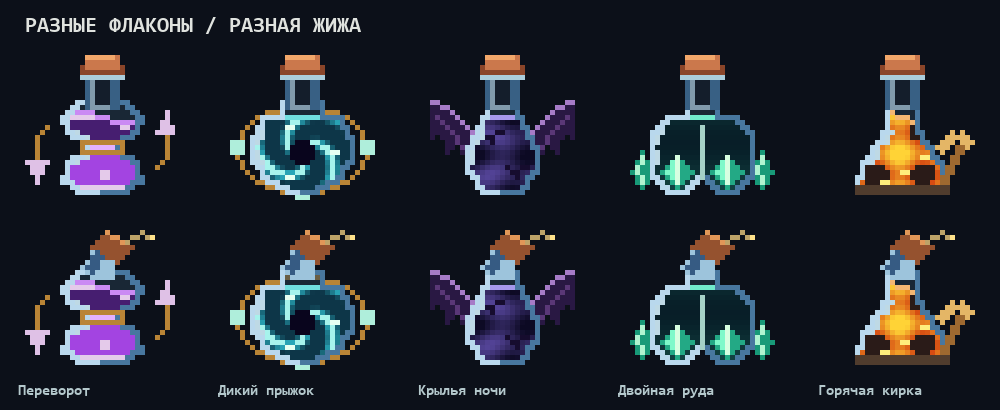
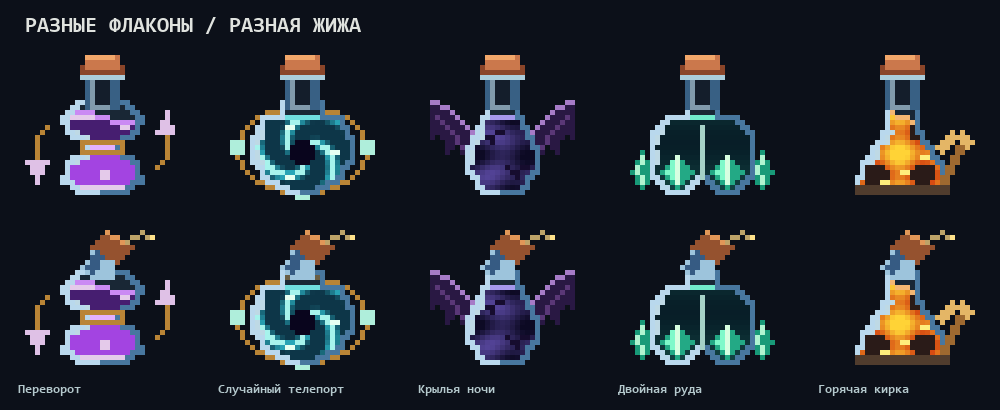
Add Hunter and Gravity potion artwork and clarify Random Teleport

diff --git a/tools/potion_designs.py b/tools/potion_designs.py
@@ -1,4 +1,4 @@
-"""Original flat pixel artwork: fourteen silhouettes and fourteen moving substances."""
+"""Original flat pixel artwork: individual flask silhouettes and moving substances."""
 from PIL import Image, ImageDraw, ImageFilter
 import math
 
@@ -19,6 +19,8 @@ DESIGNS={
  'fortune': ('Сердцевидный флакон','Золотые хлопья и вспыхивающие звёзды',[(13,11),(19,11),(19,14),(22,13),(25,15),(26,19),(24,23),(20,27),(17,29),(15,29),(12,27),(8,23),(6,19),(7,15),(10,13),(13,14)]),
  'looting': ('Амфора с боковыми рукоятями','Рубиновые сгустки и белые осколки трофеев',[(12,11),(20,11),(20,14),(24,17),(24,23),(21,27),(20,29),(12,29),(11,27),(8,23),(8,17),(12,14)]),
  'shapeshifter': ('Асимметричная колба','Две несмешивающиеся массы, меняющие границу и облик',[(12,11),(20,11),(20,14),(24,15),(26,18),(25,23),(22,26),(21,29),(11,29),(10,26),(7,23),(8,19),(11,17),(12,14)]),
+ 'hunter': ('Колба-щит с прицелом','Сканирующая сетка проявляет силуэты мобов и ловушек',[(12,11),(20,11),(20,13),(25,15),(25,22),(23,26),(19,29),(13,29),(9,26),(7,22),(7,15),(12,13)]),
+ 'gravity': ('Парящая капсула с магнитными кольцами','Серебристая масса и капли перемещаются между дном и верхом',[(13,11),(19,11),(21,13),(22,17),(22,25),(20,28),(18,29),(14,29),(12,28),(10,25),(10,17),(11,13)]),
 }
 
 def rgb(h):return tuple(int(h[i:i+2],16) for i in (1,3,5))
@@ -35,7 +37,7 @@ def draw_substance(id_,c,t,inner):
    dx=x-16;dy=y-21;radius=math.hypot(dx,dy);ang=math.atan2(dy,dx)
    depth=.5+.35*(1-min(1,abs(dx)/12))
    base=mix((8,12,23),c,depth)
-   # Different spatial fields, never a common ripple recolored fourteen times.
+   # Every substance has its own spatial field and animation.
    if id_=='inversion':
     seam=20+round(math.sin(t)*2)
     base=mix((24,11,56),c,.85 if y>seam else .28)
@@ -86,6 +88,17 @@ def draw_substance(id_,c,t,inner):
     c2=(35,218,181);c3=(190,73,236)
     base=mix((11,25,36),c2 if x<boundary else c3,depth*.85)
     if abs(x-boundary)<.7:base=(240,192,224)
+   elif id_=='hunter':
+    scan=21+round(6*math.sin(t))
+    base=mix((35,16,30),(143,64,52),depth*.55)
+    if (x-10)%4==0 or (y-14)%4==0:base=(100,50,48)
+    if abs(y-scan)<1.5:base=mix((239,106,69),(255,235,165),1-abs(y-scan)/2)
+   elif id_=='gravity':
+    center=21+6*math.cos(t)
+    weight=math.exp(-((y-center)/2.1)**2)
+    base=mix((15,21,55),(181,209,248),weight*.94)
+    if weight>.18 and (x+y)%3==0:base=mix(base,(108,155,225),.55)
+    if abs(y-center)<.8:base=(224,243,255)
    px[x,y]=opaque(base)
  d=ImageDraw.Draw(im)
  if id_=='inversion':
@@ -145,10 +158,30 @@ def draw_substance(id_,c,t,inner):
  elif id_=='shapeshifter':
   yy=20+round(math.sin(t));d.rectangle((11,yy,13,yy+1),fill=(226,254,211,255));d.rectangle((20,yy,22,yy+1),fill=(255,203,233,255))
   d.point((12 if math.sin(t)>0 else 11,yy),fill=(16,44,39,255));d.point((21 if math.cos(t)>0 else 20,yy),fill=(41,18,65,255))
+ elif id_=='hunter':
+  scan=21+round(6*math.sin(t))
+  # Hostile eyes, a pressure plate, a button and a tripwire silhouette.
+  for x,y,kind in [(11,17,'mob'),(19,22,'mob'),(11,25,'plate'),(20,16,'button'),(18,26,'wire')]:
+   active=abs(y-scan)<3
+   col=(255,238,170,255) if active else (157,71,58,255)
+   if kind=='mob':
+    d.rectangle((x,y,x+3,y+3),outline=col)
+    d.point([(x+1,y+1),(x+3,y+1)],fill=(255,88,76,255) if active else col)
+   elif kind=='plate':d.line([(x,y),(x+3,y)],fill=col);d.point((x+1,y-1),fill=col)
+   elif kind=='button':d.rectangle((x,y,x+1,y+2),fill=col)
+   else:d.line([(x-1,y),(x,y-1),(x+1,y),(x+2,y-1)],fill=col)
+ elif id_=='gravity':
+  for k,x in enumerate([13,17,19]):
+   y=21+round(5*math.cos(t+k*.8))
+   d.ellipse((x-1,y-1,x+1,y+1),fill=(133,183,244,255),outline=(229,245,255,255))
+  d.line([(16,17),(16,24)],fill=(77,107,186,255))
+  if math.cos(t)>0:d.polygon([(14,24),(16,27),(18,24)],fill=(191,223,255,255))
+  else:d.polygon([(14,18),(16,15),(18,18)],fill=(191,223,255,255))
  # Surface and air pocket follow the local silhouette, without painting outside.
  for y in range(11,30):
   for x in range(5,27):
    if not inner.getpixel((x,y)):px[x,y]=(0,0,0,0);continue
+   if id_=='gravity':continue
    surface=14+(round(math.sin(t+x*.4)) if id_ in ['inversion','swarm','hot_pick','creeper'] else 0)
    if y<surface:px[x,y]=(0,0,0,0)
    elif y==surface:px[x,y]=opaque(mix(c,(227,249,220),.35))
@@ -190,6 +223,17 @@ def ornaments(id_,t,c,front=False):
    d.rectangle((1,23,3,25),fill=(86,164,56,255));d.rectangle((4,20,6,22),fill=(86,164,56,255));d.rectangle((4,24,6,26),fill=(86,164,56,255));d.point((4,23),fill=(227,228,139,255))
   elif id_=='shapeshifter':
    d.line([(7,20),(3,18),(3,14)],fill=(140,89,171,255),width=2);d.line([(24,23),(28,25),(29,21)],fill=(74,173,157,255),width=2)
+  elif id_=='hunter':
+   d.rectangle((2,17,7,23),outline=GOLD,width=1)
+   d.line([(1,20),(8,20)],fill=lit);d.line([(5,15),(5,25)],fill=lit)
+   d.line([(23,14),(28,16),(29,22),(27,26)],fill=(154,112,71,255))
+   d.line([(25,25),(29,25)],fill=IVORY);d.line([(25,27),(29,27)],fill=GOLD)
+  elif id_=='gravity':
+   for y in [16,27]:
+    d.ellipse((6,y-2,26,y+2),outline=GOLD,width=1)
+    d.rectangle((5,y-1,7,y+1),fill=lit);d.rectangle((25,y-1,27,y+1),fill=lit)
+   d.polygon([(2,13),(4,10),(6,13)],fill=lit);d.line([(4,13),(4,19)],fill=GOLD)
+   d.polygon([(26,25),(28,28),(30,25)],fill=lit);d.line([(28,19),(28,25)],fill=GOLD)
  else:
   if id_=='inversion':d.rectangle((12,19,20,21),outline=GOLD,width=1)
   elif id_=='homeward':
@@ -217,6 +261,14 @@ def ornaments(id_,t,c,front=False):
    d.line([(25,27),(29,17)],fill=(196,207,212,255),width=2);d.line([(25,23),(30,25)],fill=GOLD,width=1)
   elif id_=='shapeshifter':
    d.rectangle((23,12,29,17),fill=(69,46,89,255),outline=GOLD);d.point([(24,14),(28,14)],fill=lit);d.line([(26,13),(26,16)],fill=GOLD)
+  elif id_=='hunter':
+   d.line([(8,14),(12,12),(20,12),(24,14)],fill=GOLD,width=1)
+   d.rectangle((11,27,21,29),fill=(57,37,37,255),outline=GOLD)
+   d.point([(14,28),(18,28)],fill=lit)
+  elif id_=='gravity':
+   for y in [16,27]:
+    d.line([(7,y),(11,y+2),(21,y+2),(25,y)],fill=GOLD,width=1)
+    d.point([(10,y+1),(22,y+1)],fill=lit)
  return im
 
 def render_frame(entry,variant,f,n=24):

diff --git a/tools/build_pixel_potions.py b/tools/build_pixel_potions.py
@@ -25,10 +25,12 @@ def card_icon(im,size=160):
  return im.resize((size,size),Image.Resampling.NEAREST)
 
 def gallery(frames,variant,f):
- W,H=1040,970
+ rows=(len(CATALOG)+6)//7
+ footer=134+rows*257
+ W,H=1040,footer+322
  im=Image.new('RGB',(W,H),(12,16,25));d=ImageDraw.Draw(im)
  d.text((30,22),'FORBIDDEN BREWS',font=font(30,True),fill=(231,223,197))
- d.text((31,63),'14 РАЗНЫХ ФОРМ / '+('ПИТЬЕВЫЕ' if variant=='drink' else 'ВЗРЫВНЫЕ'),font=font(16),fill=(136,170,187))
+ d.text((31,63),str(len(CATALOG))+' РАЗНЫХ ФОРМ / '+('ПИТЬЕВЫЕ' if variant=='drink' else 'ВЗРЫВНЫЕ'),font=font(16),fill=(136,170,187))
  for i,entry in enumerate(CATALOG):
   x=24+(i%7)*144;y=106+(i//7)*257
   d.rectangle((x,y,x+134,y+237),fill=(23,30,42),outline=(54,64,79),width=2)
@@ -41,11 +43,11 @@ def gallery(frames,variant,f):
    else:lines[-1]+=word+' '
   for j,line in enumerate(lines):d.text((x+8,y+176+j*18),line.strip(),font=font(13,True),fill=(219,223,226))
   d.rectangle((x+8,y+221,x+124,y+223),fill=rgb(entry['color']))
- d.text((30,648),'ЖИВАЯ ЖИДКОСТЬ',font=font(25,True),fill=(219,231,231))
- d.text((31,688),'Вихрь / туман / кристаллы / лава / пена / листья / золото',font=font(17),fill=(148,170,185))
+ d.text((30,footer),'ЖИВАЯ ЖИДКОСТЬ',font=font(25,True),fill=(219,231,231))
+ d.text((31,footer+40),'Вихрь / туман / кристаллы / лава / пена / листья / золото',font=font(17),fill=(148,170,185))
  # Big examples make the actual liquid animation easy to judge.
  for j,id_ in enumerate(['wild_teleport','ore_double','creeper','hot_pick']):
-  icon=card_icon(frames[id_][f],192);im.paste(icon,(40+j*250,737),icon)
+  icon=card_icon(frames[id_][f],192);im.paste(icon,(40+j*250,footer+89),icon)
  return im
 
 def save_gif(frames,path,duration=100):
@@ -91,9 +93,20 @@ def build(jar=None):
    entry=next(e for e in CATALOG if e['id']==id_)
    for k,variant in enumerate(['drink','splash']):
     icon=card_icon(frame(entry,variant,f,bases),160);im.paste(icon,(j*200+20,45+k*170),icon)
-   d.text((j*200+18,383),entry['name_ru'],font=font(15,True),fill=(181,201,205))
+   d.text((j*200+18,383),entry['name_ru'],font=font(13,True),fill=(181,201,205))
   sample.append(im)
  save_gif(sample,previews/'style_sample.gif');sample[0].save(previews/'style_sample.png')
+ additions=[]
+ for f in range(N):
+  im=Image.new('RGB',(900,530),(12,16,25));d=ImageDraw.Draw(im)
+  d.text((24,16),'ТЕЛЕПОРТ / ОХОТНИК / ГРАВИТАЦИЯ',font=font(24,True),fill=(231,223,197))
+  for j,id_ in enumerate(['wild_teleport','hunter','gravity']):
+   entry=next(e for e in CATALOG if e['id']==id_)
+   d.text((28+j*295,55),entry['name_ru'],font=font(19,True),fill=rgb(entry['color']))
+   for k,variant in enumerate(['drink','splash']):
+    icon=card_icon(frame(entry,variant,f),192);im.paste(icon,(51+j*295,85+k*206),icon)
+  additions.append(im)
+ save_gif(additions,previews/'new_potions.gif');additions[0].save(previews/'new_potions.png')
  for entry in CATALOG:
   entry['bottle_shape'],entry['substance_structure'],_=DESIGNS[entry['id']]
  (ROOT/'art'/'catalog.json').write_text(json.dumps(CATALOG,ensure_ascii=False,indent=2)+'\n',encoding='utf-8')

diff --git a/README.md b/README.md
@@ -1,18 +1,22 @@
 # Forbidden Brews
 
-Двумерные анимированные иконки зелий для Minecraft. У каждого зелья своя форма стеклянного флакона, заметные украшения и отдельная структура анимированного содержимого. **14 зелий × 2 версии = 28 иконок.**
+Двумерные анимированные иконки зелий для Minecraft. У каждого зелья своя форма стеклянного флакона, заметные украшения и отдельная структура анимированного содержимого. **16 зелий × 2 версии = 32 иконки.**
 
 ## Быстрый просмотр
+
+Случайная телепортация, охотник и гравитация — питьевые и взрывные версии:
+
+![Телепорт, охотник и гравитация](previews/new_potions.gif)
 
 ![Образцы обычных и взрывных флаконов](previews/style_sample.gif)
 
 Питьевые версии:
 
-![14 питьевых зелий](previews/potions_drink.gif)
+![16 питьевых зелий](previews/potions_drink.gif)
 
 Взрывные версии:
 
-![14 взрывных зелий](previews/potions_splash.gif)
+![16 взрывных зелий](previews/potions_splash.gif)
 
 ## Файлы
 
@@ -21,14 +25,14 @@
 - `previews/individual/` — отдельная GIF для каждого зелья и каждой версии.
 - `art/catalog.json` — названия, цвета, формы флаконов, структуры содержимого и задуманные эффекты.
 - `tools/build_pixel_potions.py` — воспроизводимая сборка иконок и GIF.
-- `tools/potion_designs.py` — авторская пиксельная графика и отдельные анимации всех 14 составов.
+- `tools/potion_designs.py` — авторская пиксельная графика и отдельные анимации всех 16 составов.
 
 ## Формы и содержимое
 
 | Зелье | Флакон и заметные детали | Анимированное содержимое |
 |---|---|---|
 | Переворот | Песочные часы, встречные стрелки | Два слоя и капли, движущиеся навстречу |
-| Дикий прыжок | Круглый диск, кольцо портала | Вихрь с тёмным центром и вращающимися огнями |
+| Случайный телепорт | Круглый диск, кольцо портала | Вихрь с тёмным центром и вращающимися огнями |
 | Домой | Фонарь, крыша и светящееся окно | Вязкий мёд, тёплые сгустки и угольки |
 | Призыв орды | Угловатая колба, кости и череп | Багровый дым и вспыхивающие глаза |
 | Крылья ночи | Удлинённая капля, большие крылья | Чернильный туман и движущиеся силуэты |
@@ -41,13 +45,15 @@
 | Удача | Сердцевидный сосуд, корона и клевер | Золотые хлопья и вспыхивающие звёзды |
 | Трофеи охотника | Амфора, боковые рукояти и клинок | Рубиновые сгустки и белые осколки трофеев |
 | Перевёртыш | Асимметричный сосуд, усики и маска | Две массы меняют границу, а глаза — облик |
+| Охотник | Колба-щит с прицелом и подвеской ловушки | Сканирующая сетка проявляет силуэты мобов и ловушек |
+| Гравитация | Парящая капсула с магнитными кольцами и стрелками | Серебристая масса и капли перемещаются между дном и верхом |
 
 Взрывные версии сохраняют индивидуальную форму и состав; у них наклонённое горлышко, закрытая пробка и искрящийся фитиль.
 
 | Зелье | Задуманный эффект |
 |---|---|
 | Переворот | Переворачивает экран |
-| Дикий прыжок | Телепортирует в случайную точку карты |
+| Случайный телепорт | Телепортирует в случайную точку карты; ранее назывался «Дикий прыжок» |
 | Домой | Возвращает домой |
 | Призыв орды | Повышает спавн мобов даже днём |
 | Крылья ночи | Превращает в летучую мышь |
@@ -60,6 +66,10 @@
 | Удача | Повышает удачу в зависимости от уровня |
 | Трофеи охотника | Повышает добычу с мобов |
 | Перевёртыш | Превращает в случайного моба |
+| Охотник | Подсвечивает через стены всех враждебных мобов, кнопки, нажимные плиты и нити растяжек |
+| Гравитация | Первое нажатие прыжка меняет гравитацию и тянет к небу; второе возвращает гравитацию к земле |
+
+«Рудный охотник» продолжает подсвечивать руду. Новое зелье «Охотник» предназначено для мобов и ловушек. Для гравитации нажатие прыжка задумано как переключатель направления, в том числе когда игрок уже находится в воздухе. Взрывные версии содержат ту же спецификацию эффекта; механика применения пока не реализована.
 
 Логика эффектов и регистрация предметов пока не реализованы. Этот этап содержит только 2D-графику; 3D-заготовки отклонены и не включены в репозиторий. Стойка хаоса в текущую 2D-серию не входит.
 
